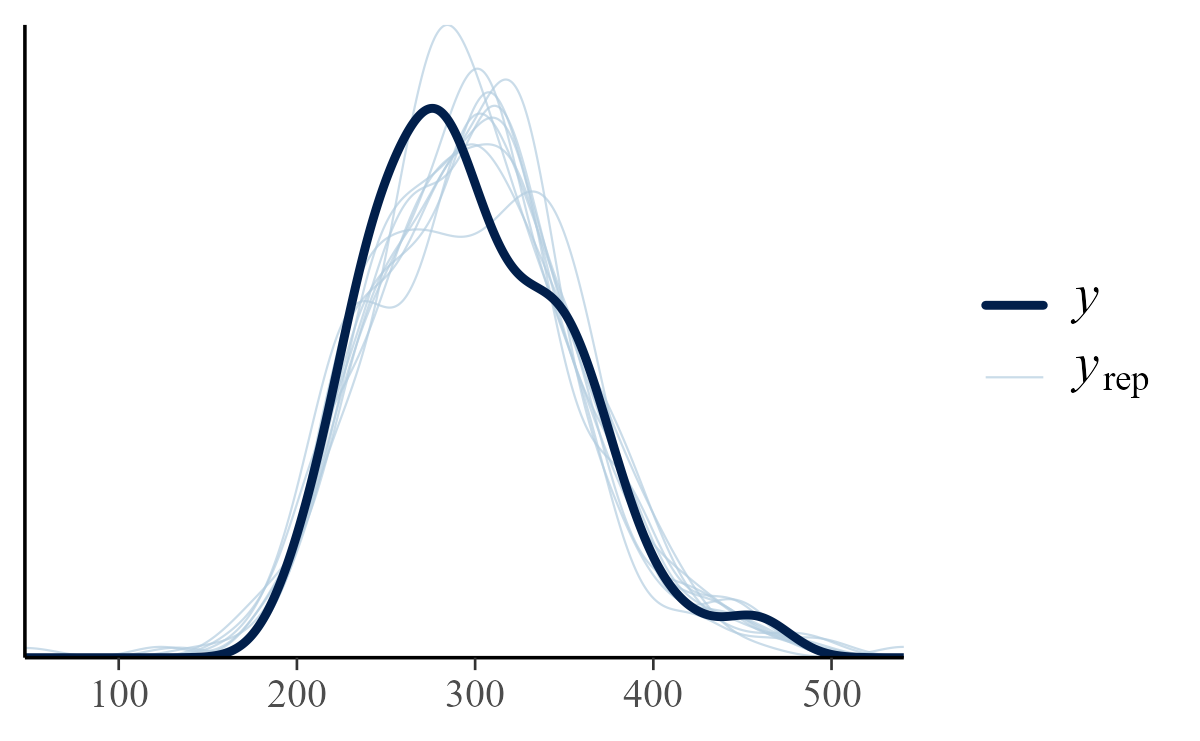
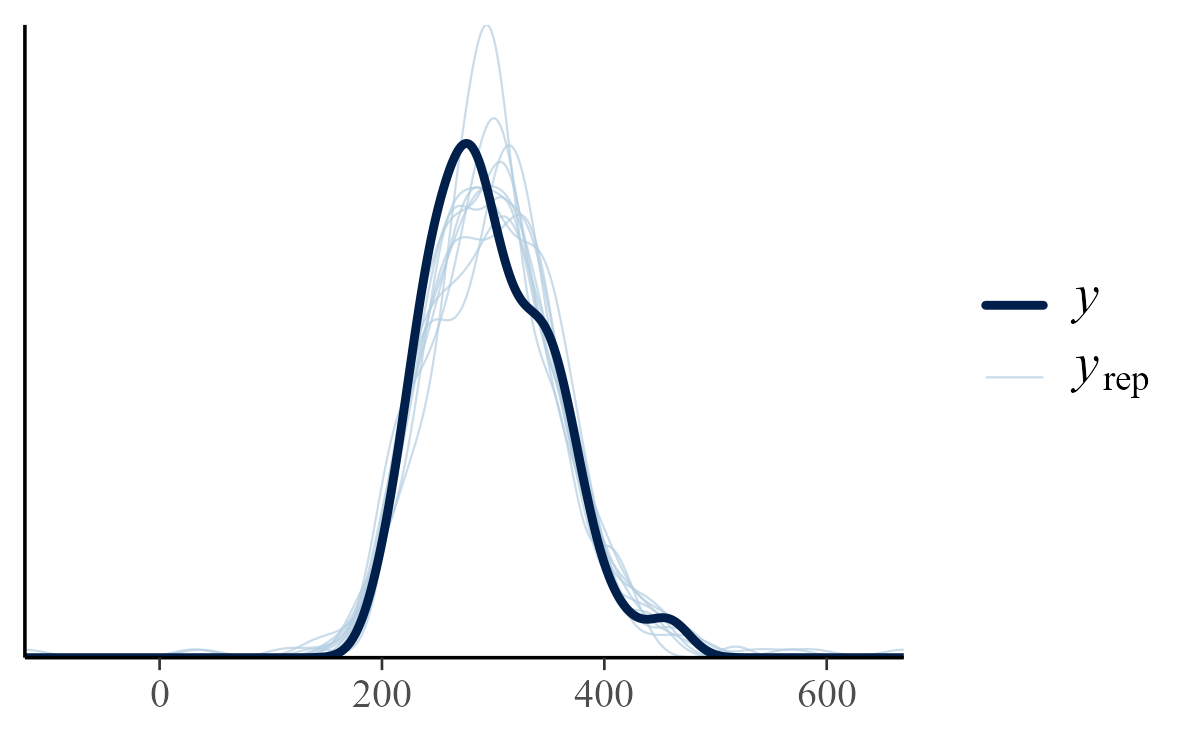
fix footnote

diff --git a/_notes/2026-11-17-brms-stanli-mock-backend.md b/_notes/2026-11-17-brms-stanli-mock-backend.md
@@ -57,11 +57,11 @@ lme4::sleepstudy$Reaction |> mean()
 lme4::sleepstudy$Reaction |> sd()
 #> [1] 56.32876
 rexp(1000, .01) |> fivenum()
-#> [1] 9.606964e-03 2.880808e+01 6.602695e+01 1.307296e+02 8.985949e+02
+#> [1]   0.04885372  30.38196331  70.14801274 145.45496673 768.92542630
 rexp(1000, .10) |> fivenum()
-#> [1] 9.182189e-04 2.731230e+00 7.065014e+00 1.418125e+01 7.533284e+01
+#> [1]  0.01731279  3.01678405  6.65988896 13.43290706 72.51916389
 rgamma(1000, .2, .01) |> fivenum()
-#> [1] 2.306141e-15 5.846520e-02 1.919103e+00 1.642537e+01 4.559981e+02
+#> [1] 1.535653e-14 7.973998e-02 2.084129e+00 1.617510e+01 2.501939e+02
 
 priors <- prior(normal(300, 100), class = Intercept) +
   prior(normal(0, 100), class = b) +
@@ -132,11 +132,11 @@ model_cmdstanr
 <span><span class='nf'>lme4</span><span class='nf'>::</span><span class='nv'><a href='https://rdrr.io/pkg/lme4/man/sleepstudy.html'>sleepstudy</a></span><span class='o'>$</span><span class='nv'>Reaction</span> <span class='o'>|&gt;</span> <span class='nf'><a href='https://rdrr.io/r/stats/sd.html'>sd</a></span><span class='o'>(</span><span class='o'>)</span></span>
 <span><span class='c'>#&gt; [1] 56.32876</span></span>
 <span><span class='nf'><a href='https://rdrr.io/r/stats/Exponential.html'>rexp</a></span><span class='o'>(</span><span class='m'>1000</span>, <span class='m'>.01</span><span class='o'>)</span> <span class='o'>|&gt;</span> <span class='nf'><a href='https://rdrr.io/r/stats/fivenum.html'>fivenum</a></span><span class='o'>(</span><span class='o'>)</span></span>
-<span><span class='c'>#&gt; [1] 9.606964e-03 2.880808e+01 6.602695e+01 1.307296e+02 8.985949e+02</span></span>
+<span><span class='c'>#&gt; [1]   0.04885372  30.38196331  70.14801274 145.45496673 768.92542630</span></span>
 <span><span class='nf'><a href='https://rdrr.io/r/stats/Exponential.html'>rexp</a></span><span class='o'>(</span><span class='m'>1000</span>, <span class='m'>.10</span><span class='o'>)</span> <span class='o'>|&gt;</span> <span class='nf'><a href='https://rdrr.io/r/stats/fivenum.html'>fivenum</a></span><span class='o'>(</span><span class='o'>)</span></span>
-<span><span class='c'>#&gt; [1] 9.182189e-04 2.731230e+00 7.065014e+00 1.418125e+01 7.533284e+01</span></span>
+<span><span class='c'>#&gt; [1]  0.01731279  3.01678405  6.65988896 13.43290706 72.51916389</span></span>
 <span><span class='nf'><a href='https://rdrr.io/r/stats/GammaDist.html'>rgamma</a></span><span class='o'>(</span><span class='m'>1000</span>, <span class='m'>.2</span>, <span class='m'>.01</span><span class='o'>)</span> <span class='o'>|&gt;</span> <span class='nf'><a href='https://rdrr.io/r/stats/fivenum.html'>fivenum</a></span><span class='o'>(</span><span class='o'>)</span></span>
-<span><span class='c'>#&gt; [1] 2.306141e-15 5.846520e-02 1.919103e+00 1.642537e+01 4.559981e+02</span></span>
+<span><span class='c'>#&gt; [1] 1.535653e-14 7.973998e-02 2.084129e+00 1.617510e+01 2.501939e+02</span></span>
 <span></span>
 <span><span class='nv'>priors</span> <span class='o'>&lt;-</span> <span class='nf'><a href='https://paulbuerkner.com/brms/reference/set_prior.html'>prior</a></span><span class='o'>(</span><span class='nf'>normal</span><span class='o'>(</span><span class='m'>300</span>, <span class='m'>100</span><span class='o'>)</span>, class <span class='o'>=</span> <span class='nv'>Intercept</span><span class='o'>)</span> <span class='o'>+</span></span>
 <span>  <span class='nf'><a href='https://paulbuerkner.com/brms/reference/set_prior.html'>prior</a></span><span class='o'>(</span><span class='nf'>normal</span><span class='o'>(</span><span class='m'>0</span>, <span class='m'>100</span><span class='o'>)</span>, class <span class='o'>=</span> <span class='nv'>b</span><span class='o'>)</span> <span class='o'>+</span></span>
@@ -213,11 +213,11 @@ Now, the current trick is to tell brms to fit the model using a `"mock"`[^1]
 backend.
 
 [^1]: In software testing, we might define a "mock" version of a
-computation, like a file download, where we skip the actual and maybe
-unpredictable work and load up a prepared result. brms can test model
-preparation by skipping model compilation and skipping sampling with
-a mock backend and loading in some prepared MCMC samples. That's how we
-can understand what this code is doing.
+    computation, like a file download, where we skip the actual and maybe
+    unpredictable work and load up a prepared result. brms can test model
+    preparation by skipping model compilation and skipping sampling with
+    a mock backend and loading in some prepared MCMC samples. That's how we
+    can understand what this code is doing.
 
 <!--
 
@@ -412,19 +412,19 @@ rstan::get_elapsed_time(model_cmdstanr$fit)
 
 rstan::get_elapsed_time(model_stanli$fit)
 #>            warmup    sample
-#> chain:1 0.6049492 0.2702060
-#> chain:2 0.5239084 0.2665887
-#> chain:3 0.5545677 0.2687391
-#> chain:4 0.4722335 0.2518614
+#> chain:1 0.6565742 0.2930656
+#> chain:2 0.6128654 0.2871662
+#> chain:3 0.6307627 0.2910862
+#> chain:4 0.5246784 0.2682132
 
 # If we want to say "n-times faster"
 rstan::get_elapsed_time(model_cmdstanr$fit) / 
   rstan::get_elapsed_time(model_stanli$fit)
 #>           warmup   sample
-#> chain:1 3.499467 3.630563
-#> chain:2 3.834640 3.927398
-#> chain:3 3.420682 3.832714
-#> chain:4 4.726475 4.093521
+#> chain:1 3.224312 3.347373
+#> chain:2 3.278044 3.645972
+#> chain:3 3.007470 3.538471
+#> chain:4 4.254034 3.843957
 ```
 -->
 <pre class='chroma'>
@@ -437,19 +437,19 @@ rstan::get_elapsed_time(model_cmdstanr$fit) /
 <span></span>
 <span><span class='nf'>rstan</span><span class='nf'>::</span><span class='nf'><a href='https://mc-stan.org/rstan/reference/stanfit-class.html'>get_elapsed_time</a></span><span class='o'>(</span><span class='nv'>model_stanli</span><span class='o'>$</span><span class='nv'>fit</span><span class='o'>)</span></span>
 <span><span class='c'>#&gt;            warmup    sample</span></span>
-<span><span class='c'>#&gt; chain:1 0.6049492 0.2702060</span></span>
-<span><span class='c'>#&gt; chain:2 0.5239084 0.2665887</span></span>
-<span><span class='c'>#&gt; chain:3 0.5545677 0.2687391</span></span>
-<span><span class='c'>#&gt; chain:4 0.4722335 0.2518614</span></span>
+<span><span class='c'>#&gt; chain:1 0.6565742 0.2930656</span></span>
+<span><span class='c'>#&gt; chain:2 0.6128654 0.2871662</span></span>
+<span><span class='c'>#&gt; chain:3 0.6307627 0.2910862</span></span>
+<span><span class='c'>#&gt; chain:4 0.5246784 0.2682132</span></span>
 <span></span>
 <span><span class='c'># If we want to say "n-times faster"</span></span>
 <span><span class='nf'>rstan</span><span class='nf'>::</span><span class='nf'><a href='https://mc-stan.org/rstan/reference/stanfit-class.html'>get_elapsed_time</a></span><span class='o'>(</span><span class='nv'>model_cmdstanr</span><span class='o'>$</span><span class='nv'>fit</span><span class='o'>)</span> <span class='o'>/</span> </span>
 <span>  <span class='nf'>rstan</span><span class='nf'>::</span><span class='nf'><a href='https://mc-stan.org/rstan/reference/stanfit-class.html'>get_elapsed_time</a></span><span class='o'>(</span><span class='nv'>model_stanli</span><span class='o'>$</span><span class='nv'>fit</span><span class='o'>)</span></span>
 <span><span class='c'>#&gt;           warmup   sample</span></span>
-<span><span class='c'>#&gt; chain:1 3.499467 3.630563</span></span>
-<span><span class='c'>#&gt; chain:2 3.834640 3.927398</span></span>
-<span><span class='c'>#&gt; chain:3 3.420682 3.832714</span></span>
-<span><span class='c'>#&gt; chain:4 4.726475 4.093521</span></span></pre>
+<span><span class='c'>#&gt; chain:1 3.224312 3.347373</span></span>
+<span><span class='c'>#&gt; chain:2 3.278044 3.645972</span></span>
+<span><span class='c'>#&gt; chain:3 3.007470 3.538471</span></span>
+<span><span class='c'>#&gt; chain:4 4.254034 3.843957</span></span></pre>
 
 But don't forget compile time:
 
@@ -467,7 +467,7 @@ compile_time <- system.time({
 })
 compile_time
 #>    user  system elapsed 
-#>    0.08    0.05   19.09
+#>    0.09    0.06   23.87
 
 cmdstanr_total <- model_cmdstanr$fit |> 
   rstan::get_elapsed_time() |> 
@@ -480,7 +480,7 @@ stanli_total <- model_stanli$fit |>
   max()
   
 (cmdstanr_total + unname(compile_time[3])) / stanli_total 
-#> [1] 25.54176
+#> [1] 28.57189
 ```
 -->
 <pre class='chroma'>
@@ -495,7 +495,7 @@ stanli_total <- model_stanli$fit |>
 <span><span class='o'>}</span><span class='o'>)</span></span>
 <span><span class='nv'>compile_time</span></span>
 <span><span class='c'>#&gt;    user  system elapsed </span></span>
-<span><span class='c'>#&gt;    0.08    0.05   19.09</span></span>
+<span><span class='c'>#&gt;    0.09    0.06   23.87</span></span>
 <span></span>
 <span><span class='nv'>cmdstanr_total</span> <span class='o'>&lt;-</span> <span class='nv'>model_cmdstanr</span><span class='o'>$</span><span class='nv'>fit</span> <span class='o'>|&gt;</span> </span>
 <span>  <span class='nf'>rstan</span><span class='nf'>::</span><span class='nf'><a href='https://mc-stan.org/rstan/reference/stanfit-class.html'>get_elapsed_time</a></span><span class='o'>(</span><span class='o'>)</span> <span class='o'>|&gt;</span> </span>
@@ -508,4 +508,4 @@ stanli_total <- model_stanli$fit |>
 <span>  <span class='nf'><a href='https://rdrr.io/r/base/Extremes.html'>max</a></span><span class='o'>(</span><span class='o'>)</span></span>
 <span>  </span>
 <span><span class='o'>(</span><span class='nv'>cmdstanr_total</span> <span class='o'>+</span> <span class='nf'><a href='https://rdrr.io/r/base/unname.html'>unname</a></span><span class='o'>(</span><span class='nv'>compile_time</span><span class='o'>[</span><span class='m'>3</span><span class='o'>]</span><span class='o'>)</span><span class='o'>)</span> <span class='o'>/</span> <span class='nv'>stanli_total</span> </span>
-<span><span class='c'>#&gt; [1] 25.54176</span></span></pre>
+<span><span class='c'>#&gt; [1] 28.57189</span></span></pre>
